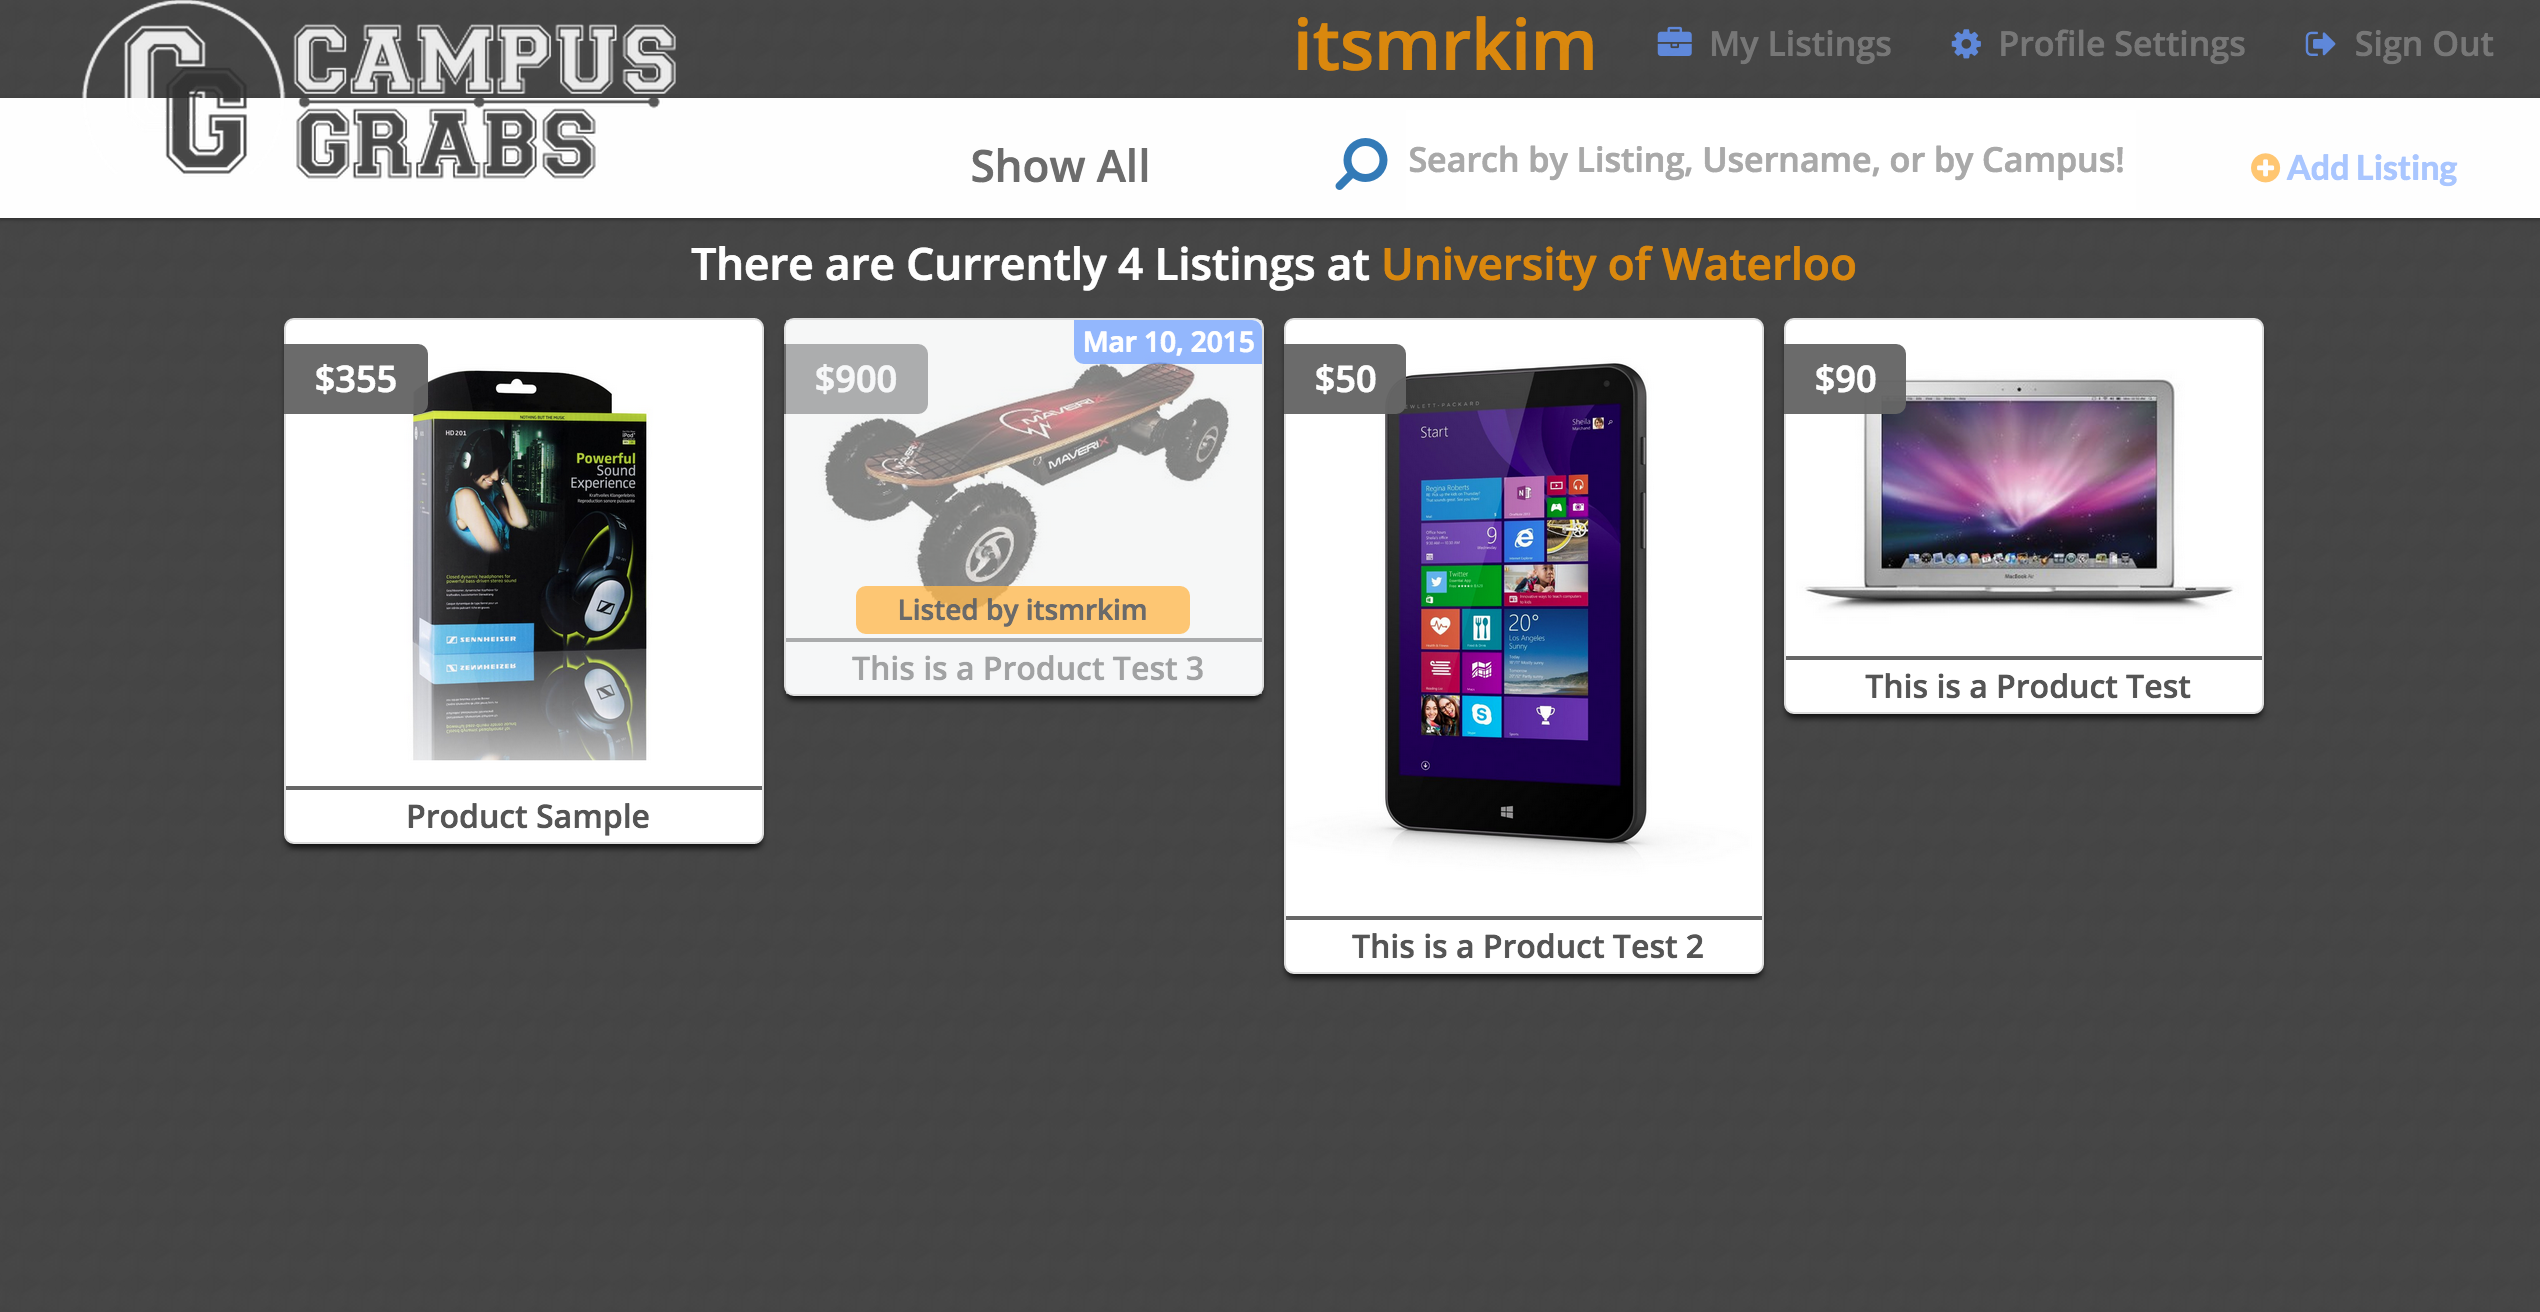
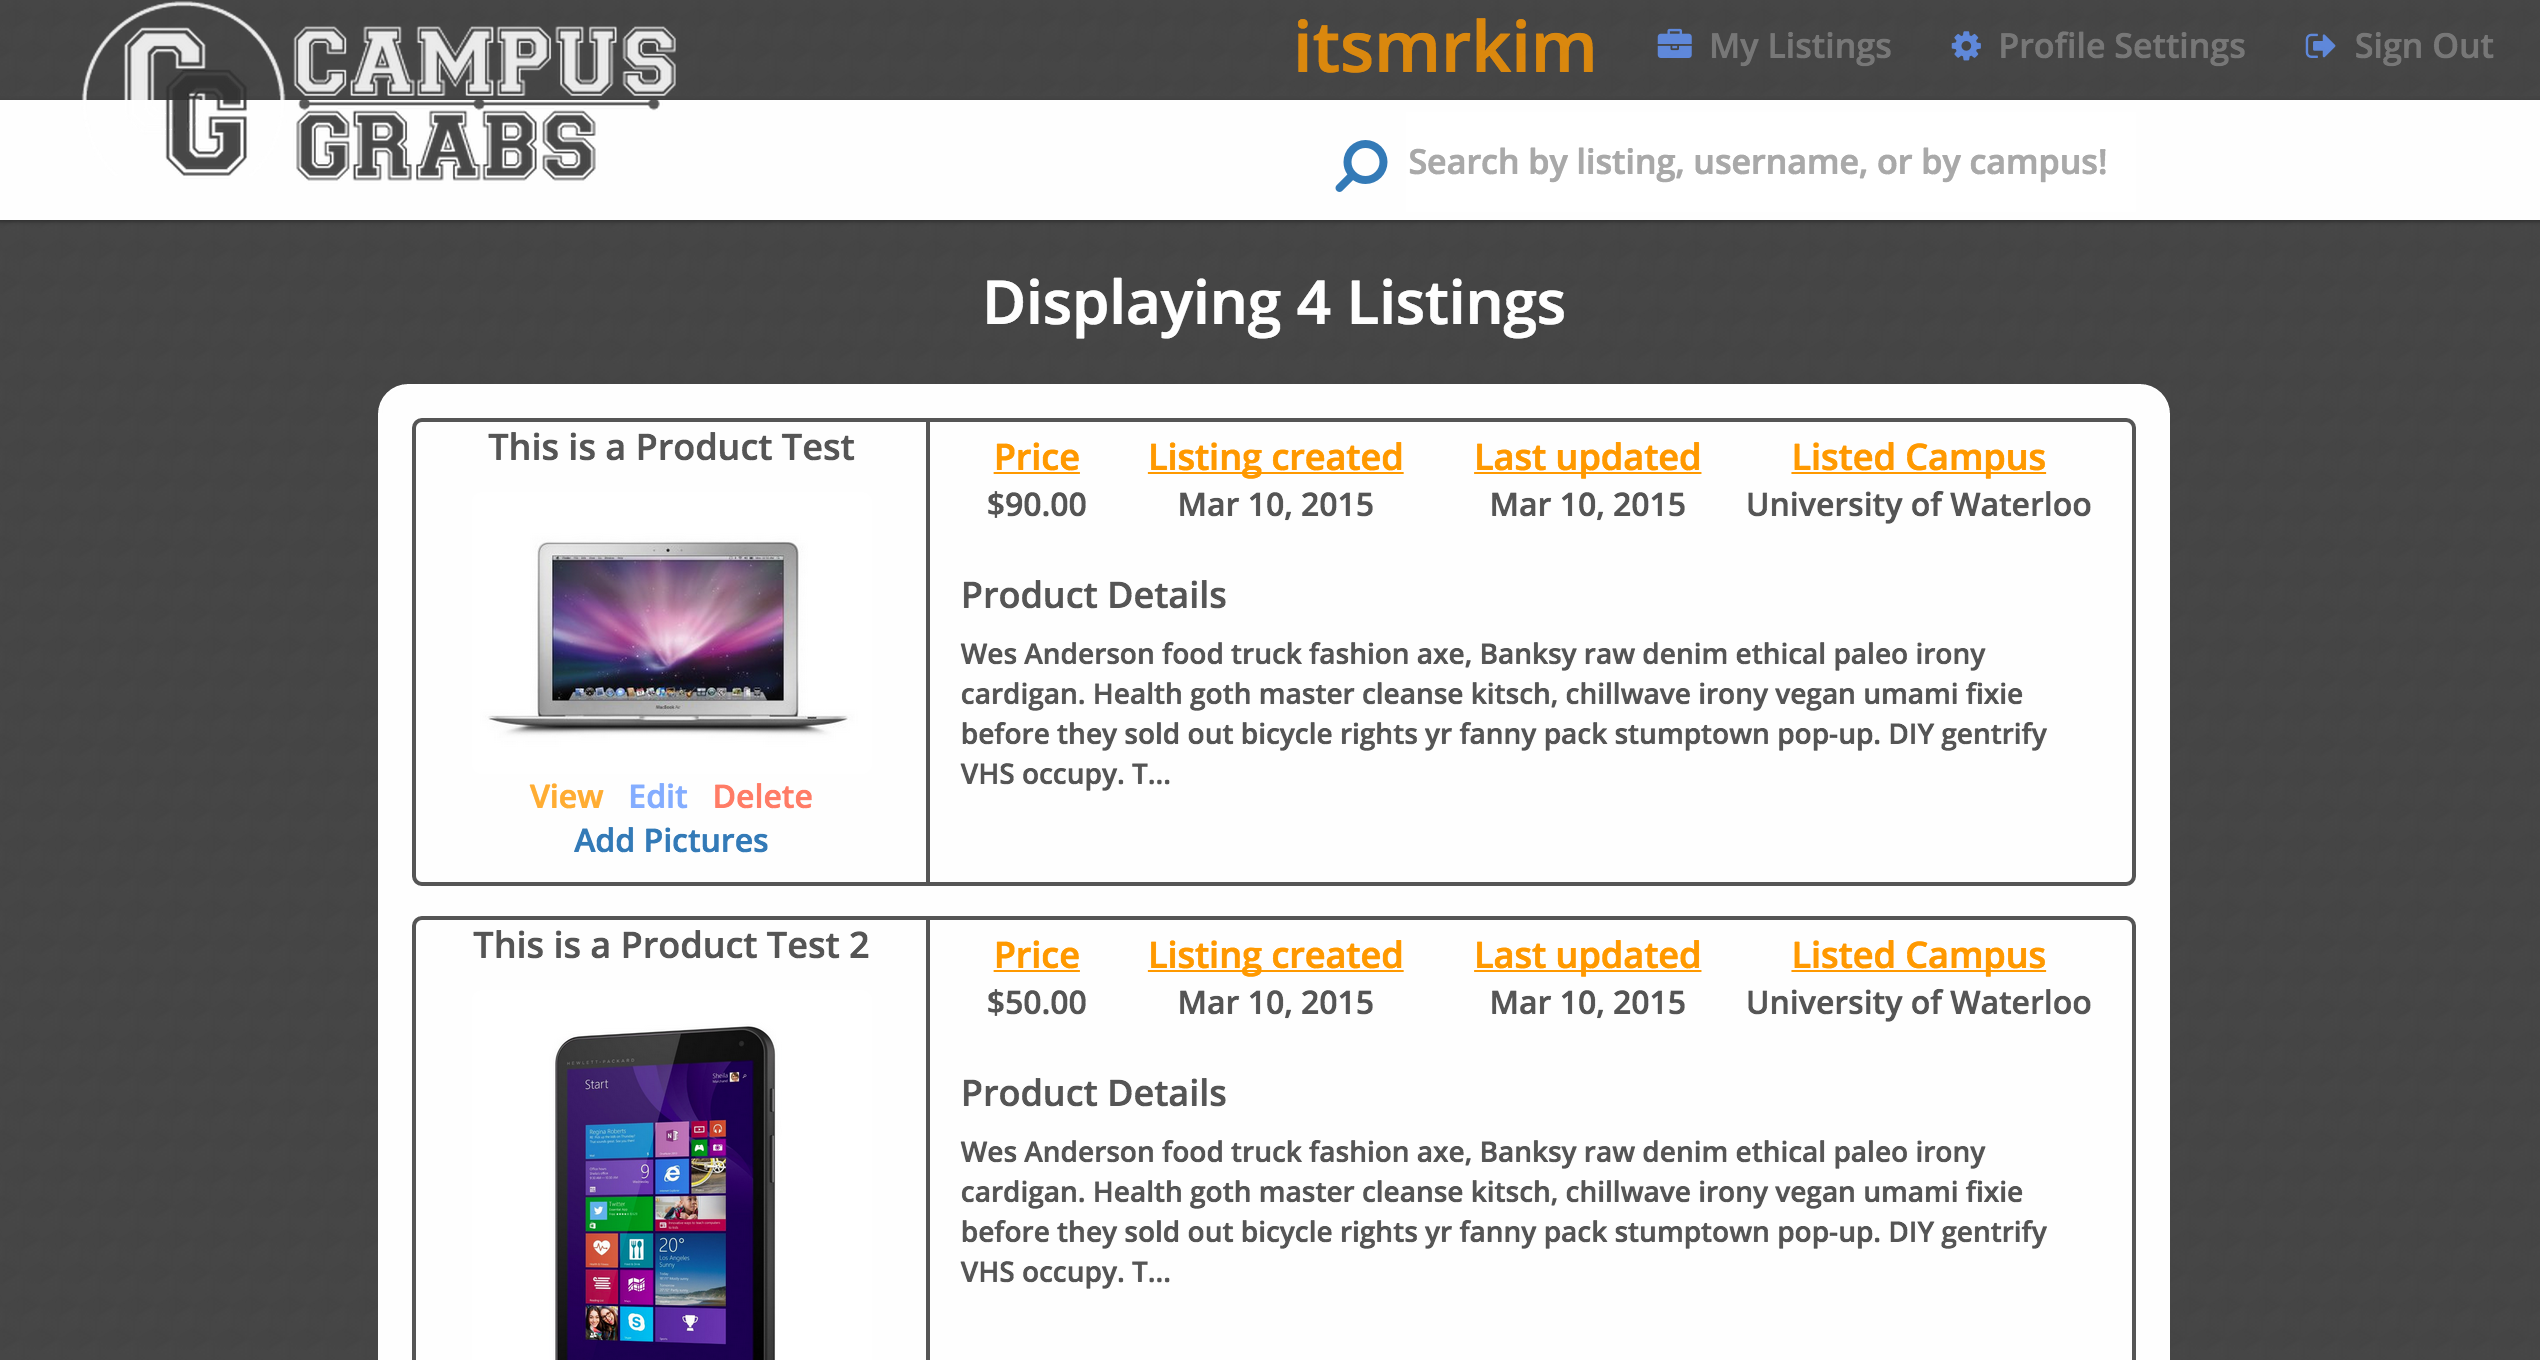
Finished stlying all pages, and did a few refactoring

diff --git a/app/assets/stylesheets/Listings/listings.css.scss b/app/assets/stylesheets/Listings/listings.css.scss
@@ -304,10 +304,14 @@ input#q:focus {
   height: 270px;
 }
 
-.modal-content.register {
+.modal-content.register, .modal-content.listing {
   height: 260px !important;
   margin-left: auto;
   margin-right: auto;
+}
+
+.modal-content.listing {
+  height: 580px !important;
 }
 
 .forgot-pw {
@@ -322,6 +326,41 @@ input#q:focus {
   }
 }
 
+.upload {
+    width: 160px;
+    height: 50px;
+    margin-left: auto;
+    margin-right: auto;
+    background-image: url("/images/upload.png");
+    background-repeat: no-repeat;
+    overflow: hidden;
+}
+
+.upload input {
+    display: block !important;
+    width: 160px !important;
+    height: 70px !important;
+    opacity: 0 !important;
+    overflow: hidden !important;
+}
+
+.upload input:hover {
+  cursor: pointer;
+}
+
+textarea#listing_description {
+  margin: 0px;
+  height: 130px;
+  max-height: 130px;
+  width: 580px;
+  max-width: 400px;
+}
+
+// Add Listing Pop Up Modal
+
+input#listing_title, input#listing_price, select#listing_category {
+  height: 50px;
+}
 
 // ---------- Mobile Views ----------
 @media (max-width: 767px) {

diff --git a/app/assets/stylesheets/Users/profile_settings.css.scss b/app/assets/stylesheets/Users/profile_settings.css.scss
@@ -24,7 +24,7 @@ input#user_avatar {
   margin-right: auto;
   margin-top: 5px;
 }
-input#user_current_passsowrd.password.required.form-control {
+input#user_current_passsword.password.required.form-control {
   border-radius: 0 4px 4px 0;
 }
 
@@ -45,5 +45,22 @@ input#user_current_passsowrd.password.required.form-control {
     margin-left: auto;
     margin-right: auto;
     color: rgba(101, 153, 255, 0.8);
+  }
+}
+
+
+.col-md-6.welcome.user-bio {
+  width: 100%;
+
+  .input-group.register {
+    width: 400px;
+    height: 100px;
+    margin-left: 40px; 
+
+    textarea#user_user_bio {
+      width: 350px !important;
+      height: 100px;
+      border-radius: 0 4px 4px 0;
+    }
   }
 }

diff --git a/app/assets/stylesheets/Users/users.css.scss b/app/assets/stylesheets/Users/users.css.scss
@@ -59,9 +59,11 @@
   }
 
   #bio {
-    font-weight: normal;
+    opacity: 0.8;
     text-align: center;
     margin-top: 55px;
+    color: #f6f6f6;
+    font-weight: 600;
   }
 
   #name {
@@ -96,4 +98,13 @@
     color: #FFF !important;
     line-height: 20px !important;
     margin-top: 80px !important;
-}      
+}    
+
+.user-listings {
+  h2 {
+    text-align: center;
+    color: #FEFEFE;
+    font-weight: 700;
+    text-decoration: underline;
+  }
+} 

diff --git a/app/assets/stylesheets/images.css.scss b/app/assets/stylesheets/images.css.scss
@@ -1,0 +1,29 @@
+.new-image-wrapper {
+  text-align: center;
+
+  h1 {
+    color: #FEFEFE;
+  }
+}
+ 
+.show-uploaded-images {
+  .listing-image.parent-container {
+    left: 0;
+    right: 0;
+    margin-left: auto;
+    margin-right: auto;
+    margin-top: 0px;
+  }
+}
+
+.each-image-preview {
+  width: 80%;
+}
+
+#delete-picture {
+  color: rgba(255, 153, 0, 0.8);
+}
+
+#delete-picture:hover {
+  color: rgba(255, 153, 0, 0.5);
+}

diff --git a/app/assets/stylesheets/welcome.css.scss b/app/assets/stylesheets/welcome.css.scss
@@ -265,6 +265,7 @@
 
 /* Footer */
 .welcome-footer {
+  color: #F6F6F6;
   position: absolute;
   bottom: 15px;
   left: 0;

diff --git a/app/assets/javascripts/application.js b/app/assets/javascripts/application.js
@@ -18,3 +18,4 @@
 //= require bootstrap
 //= require_tree .
 
+

diff --git a/app/controllers/images_controller.rb b/app/controllers/images_controller.rb
@@ -1,20 +1,17 @@
 class ImagesController < ApplicationController
   before_action :authenticate_user!
   before_action :set_listing  
-  before_action :set_image, only: [:show, :edit, :update, :destroy]
+  before_action :set_image, only: [:show, :destroy]
   before_filter :ensure_logged_in, only: [:new, :edit, :destroy]
   before_filter :ensure_correct_user, only: [:edit]
-
-  def show
-  end
-
-  def new
-  end
-
+  
   def create
     @image = @listing.images.create(image_params)
     @image.save
-    redirect_to @listing
+    respond_to do |format|
+      format.html { redirect_to :back }
+      format.json { head :no_content }
+    end
   end
 
   def destroy
@@ -23,7 +20,10 @@ class ImagesController < ApplicationController
     else
       flash[:error] = "Image could not be deleted. Please try again."
     end
-    redirect_to @listing
+    respond_to do |format|
+      format.html { redirect_to :back }
+      format.json { head :no_content }
+    end
   end
 
   private

diff --git a/app/models/user.rb b/app/models/user.rb
@@ -5,6 +5,6 @@ class User < ActiveRecord::Base
   devise :database_authenticatable, :registerable,
          :recoverable, :rememberable, :trackable, :validatable
 
-  validates_presence_of :username
+  validates_presence_of :username, :email
   has_many :listings
 end

diff --git a/app/controllers/users_controller.rb b/app/controllers/users_controller.rb
@@ -1,5 +1,6 @@
 class UsersController < ApplicationController
   def show
     @user = User.find(params[:id])
+    @listings = Listing.where("(user_id) = (#{@user.id})")
   end
 end

diff --git a/README.md b/README.md
@@ -1,10 +1,16 @@
 # CampusGrabs
 
-#### A Classifieds Page to Buy and Sell, dedicated to University students across Ontario.
+##### A Classifieds Page to Buy and Sell, dedicated to University students across Ontario.
 Current not mobile friendly (On progress)
 
 **Welcome Page**
 ![Alt text](/screenshot1.png?raw=true)
 
 **Main Listings Page**
+![Alt text](/screenshot4.png?raw=true)
+
+**My Listings Page**
 ![Alt text](/screenshot2.png?raw=true)
+
+**User Profile Page**
+![Alt text](/screenshot3.png?raw=true)
